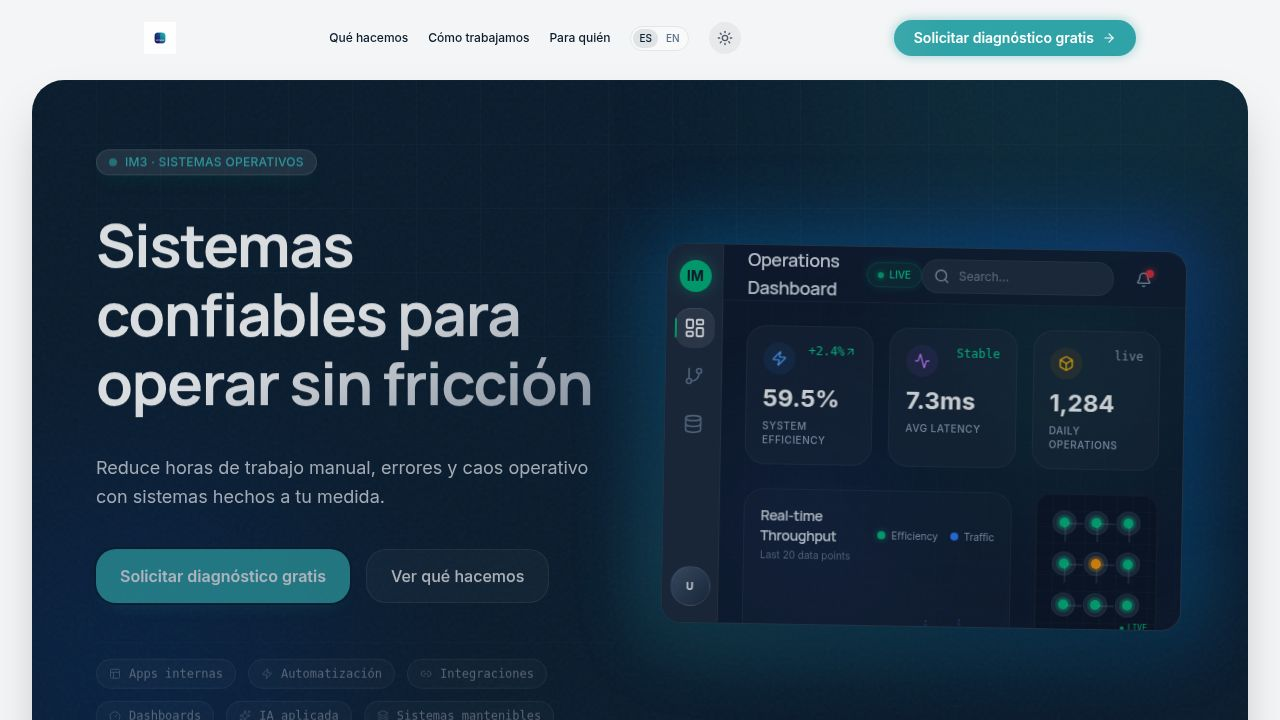
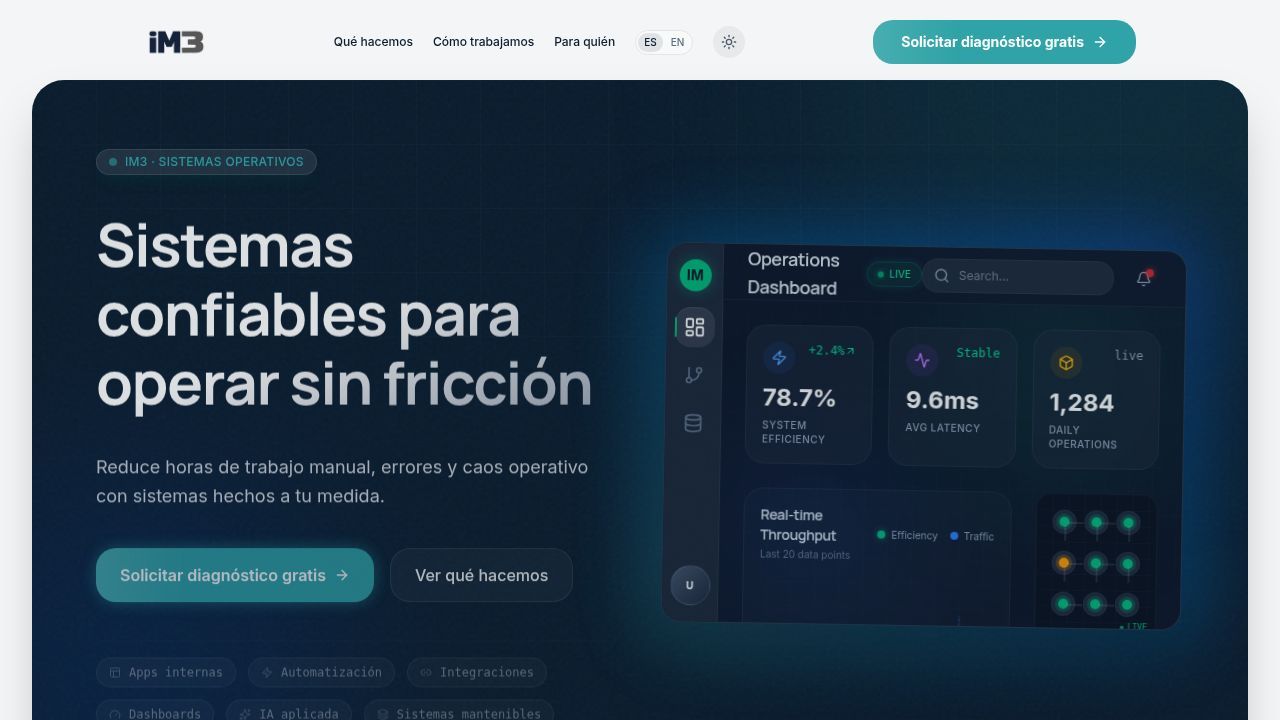
Enhance header call-to-action button with increased prominence and animation
Updates CSS to introduce a more prominent glow animation for the header CTA button and refactors the button's class name and styling in `home.tsx`. Also updates client roles in translations.

Replit-Commit-Author: Agent
Replit-Commit-Session-Id: 5e15fcdf-d07d-4418-b0af-6d7576b221ef
Replit-Commit-Checkpoint-Type: full_checkpoint
Replit-Commit-Event-Id: 74d19cd7-6841-4f81-83a9-d82e1ce21dd7
Replit-Commit-Screenshot-Url: https://storage.googleapis.com/screenshot-production-us-central1/28e678bc-7ce6-436b-a2b5-38521d234659/5e15fcdf-d07d-4418-b0af-6d7576b221ef/VgnvEUE
Replit-Helium-Checkpoint-Created: true

diff --git a/client/src/lib/i18n.tsx b/client/src/lib/i18n.tsx
@@ -98,7 +98,7 @@ const translations = {
       featuredLabel: "Cliente destacado",
       reviews: [
         { quote: "Nos automatizaron todo el agendamiento de clases, cronogramas y la página web. Lo que antes nos tomaba horas de coordinación manual ahora funciona solo. El equipo puede enfocarse en enseñar, no en administrar.", author: "Sebastián Garzón", role: "Fundador · Passport2Fluency", featured: true },
-        { quote: "Nos construyeron la página web y un chatbot de ventas y atención al cliente en WhatsApp. Los resultados fueron asombrosos — cerramos más ventas y nuestros clientes reciben respuesta inmediata, 24/7.", author: "Nicolás Hernández", role: "Director · AMJ Solutions", featured: true },
+        { quote: "Nos construyeron la página web y un chatbot de ventas y atención al cliente en WhatsApp. Los resultados fueron asombrosos — cerramos más ventas y nuestros clientes reciben respuesta inmediata, 24/7.", author: "Nicolás Hernández", role: "Fundador y CEO · Xtremcol", featured: true },
         { quote: "Diseñaron una app de contratación y preselección de personal que nos ahorra horas. Antes revisábamos 200 hojas de vida a mano — ahora el sistema filtra, clasifica y nos muestra solo los perfiles que encajan.", author: "Andrés Villamizar", role: "Gerente de Operaciones · La Glorieta" },
         { quote: "El sistema de seguimiento de talento humano nos cambió la gestión. Ahora tenemos visibilidad real del desempeño de cada trabajador, evaluaciones automatizadas y alertas antes de que un problema escale.", author: "Camila Restrepo", role: "Directora RRHH · Grupo Santamaría" },
         { quote: "Nos armaron un sistema de procesos y checklists operativos. Cada turno se ejecuta igual, con trazabilidad completa. Las auditorías que antes tomaban días ahora se resuelven con un click.", author: "Diego Morales", role: "Director de Calidad · FreshBox" },
@@ -242,7 +242,7 @@ const translations = {
       featuredLabel: "Featured client",
       reviews: [
         { quote: "They automated our entire class scheduling, timetables, and website. What used to take hours of manual coordination now runs on its own. The team can focus on teaching, not managing.", author: "Sebastián Garzón", role: "Founder · Passport2Fluency", featured: true },
-        { quote: "They built our website and a WhatsApp sales and customer service chatbot. The results were amazing — we close more sales and our clients get instant responses, 24/7.", author: "Nicolás Hernández", role: "Director · AMJ Solutions", featured: true },
+        { quote: "They built our website and a WhatsApp sales and customer service chatbot. The results were amazing — we close more sales and our clients get instant responses, 24/7.", author: "Nicolás Hernández", role: "Founder & CEO · Xtremcol", featured: true },
         { quote: "They designed a hiring and pre-screening app that saves us hours. We used to review 200 resumes by hand — now the system filters, ranks, and shows only the profiles that fit.", author: "Andrés Villamizar", role: "Operations Manager · La Glorieta" },
         { quote: "The talent management system transformed our HR. We now have real visibility into each worker's performance, automated evaluations, and alerts before a problem escalates.", author: "Camila Restrepo", role: "HR Director · Grupo Santamaría" },
         { quote: "They built a process and checklist system for our operations. Every shift runs the same way, with full traceability. Audits that used to take days now resolve with one click.", author: "Diego Morales", role: "Quality Director · FreshBox" },

diff --git a/client/src/pages/home.tsx b/client/src/pages/home.tsx
@@ -171,10 +171,10 @@ const Header = () => {
           <div className="hidden md:flex items-center">
             <button 
               onClick={openBooking}
-              className="group relative bg-[hsl(var(--teal))] text-white px-6 py-2.5 rounded-xl text-[13px] font-bold hover:translate-y-[-2px] hover:shadow-[0_10px_25px_-6px_rgba(47,164,169,0.6)] transition-all duration-300 flex items-center gap-2.5 overflow-hidden cta-glow"
+              className="group relative bg-[hsl(var(--teal))] text-white px-7 py-3 rounded-xl text-sm font-bold hover:translate-y-[-2px] hover:shadow-[0_10px_25px_-6px_rgba(47,164,169,0.6)] transition-all duration-300 flex items-center gap-2.5 overflow-hidden header-cta-glow"
             >
               <span className="relative z-10 flex items-center gap-2">
-                {t.nav.requestDiagnosis} <ArrowRight className="w-4 h-4 transition-transform duration-300 group-hover:translate-x-1.5" />
+                {t.nav.requestDiagnosis} <ArrowRight className="w-4 h-4 transition-transform duration-300 group-hover:translate-x-2" />
               </span>
               <span className="absolute inset-0 cta-shimmer pointer-events-none" />
             </button>

diff --git a/client/src/index.css b/client/src/index.css
@@ -200,6 +200,15 @@
   animation: ctaGlow 2s ease-in-out infinite;
 }
 
+.header-cta-glow {
+  animation: headerCtaGlow 2.2s ease-in-out infinite;
+}
+
+@keyframes headerCtaGlow {
+  0%, 100% { box-shadow: 0 0 12px rgba(47,164,169,0.35), 0 0 0 0 rgba(47,164,169,0); }
+  50% { box-shadow: 0 0 22px rgba(47,164,169,0.55), 0 0 36px rgba(47,164,169,0.25), 0 2px 8px rgba(47,164,169,0.3); }
+}
+
 .cta-shimmer {
   background: linear-gradient(90deg, transparent 0%, rgba(255,255,255,0.18) 50%, transparent 100%);
   animation: ctaShimmer 2.5s ease-in-out infinite;
